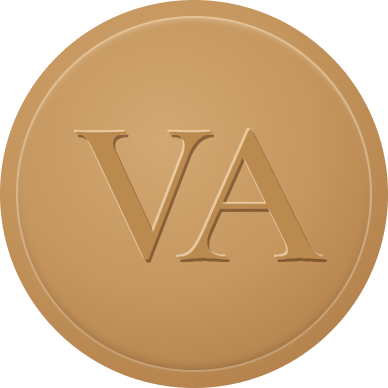
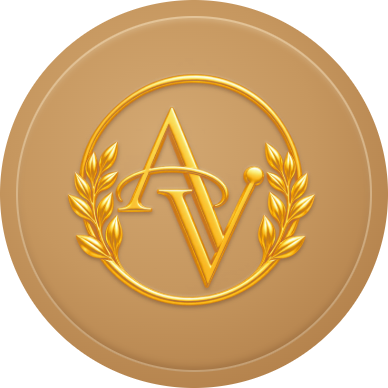
vaishali-arpan-wedding: the couple's AV monogram in the envelope's seal (poster and film) and on the closing slide
- invites/src/vaishali-arpan-wedding/av-logo.jpg (the client's file) keyed from black to transparent by the tool → assets/av-logo.png
- The seal face now carries the monogram instead of lettered VA; seal.png (the film's overlay) regenerated from the same face
- Closing slide: the monogram replaces the demo's heart flourish under the hashtag

Changed region(s): [[0.1546, 0.1856, 0.8351, 0.8041], [0.3711, 0.6186, 0.4021, 0.6804]]

diff --git a/public/vaishali-arpan-wedding/config.js b/public/vaishali-arpan-wedding/config.js
@@ -77,9 +77,9 @@ export const config = {
 
   stars: { title: 'A Little Message from Our Little Stars', big: 'My Bua is getting married!', line: ['Please join us to celebrate', 'this beautiful new beginning!'], love: 'With love,', names: 'Mishika, Navya & Himanshi' },
 
-  /* logo: the couple's own AV monogram, once the client supplies the file (assets/av-logo.png, transparent);
-     until then the page keeps the demo's small heart flourish under the hashtag */
-  closing: { title: ['Your Presence Is', 'Our Greatest Gift'], lines: 'We look forward to celebrating these beautiful moments with you and your family.', hashtag: '#theARVAStory', logo: '' },
+  /* logo: the couple's own AV monogram (the client's file, its black background keyed out by the tool),
+     in place of the demo's heart flourish under the hashtag; set logo to '' to show the heart again */
+  closing: { title: ['Your Presence Is', 'Our Greatest Gift'], lines: 'We look forward to celebrating these beautiful moments with you and your family.', hashtag: '#theARVAStory', logo: 'assets/av-logo.png' },
 
   opening: {
     video: 'assets/opening.mp4',

diff --git a/public/vaishali-arpan-wedding/js/app.js b/public/vaishali-arpan-wedding/js/app.js
@@ -192,7 +192,7 @@ const pageClosing = Page(8, [
   sprAt('z-rule', 'p8-rule', { delay: 0.5 }),
   live('z-lines', Z.lines, { size: 3.2, cls: 'serif italic', delay: 0.65 }),
   live('z-hashtag', Z.hashtag, { size: 3.8, cls: 'serif bold soft', delay: 0.8, wrap: false }),
-  Z.logo ? h('div', { class: 's reveal', style: { ...box('z-logo'), zIndex: 3, '--d': '0.95s' } }, h('img', { src: Z.logo, alt: `${C.couple.bride} & ${C.couple.groom} monogram`, decoding: 'async', draggable: 'false', style: { objectFit: 'contain' } })) : sprAt('z-heart', 'p8-heart', { delay: 0.95 }),
+  Z.logo ? h('div', { class: 's reveal z-logo', style: { ...box('z-logo'), zIndex: 3, '--d': '0.95s' } }, h('img', { src: Z.logo, alt: `${C.couple.bride} & ${C.couple.groom} monogram`, decoding: 'async', draggable: 'false' })) : sprAt('z-heart', 'p8-heart', { delay: 0.95 }),
   h('a', { class: 'created', href: 'https://invitivals.com/', target: '_blank', rel: 'noopener' }, 'Created by ', h('b', {}, 'INVITIVALS')),
 ], { id: 'page-closing', crop: { top: 0.26 } });
 

diff --git a/public/vaishali-arpan-wedding/css/client.css b/public/vaishali-arpan-wedding/css/client.css
@@ -107,6 +107,9 @@ button.sd-btn { background: linear-gradient(180deg, #8a2430, #5e1420); color: va
 a.sd-btn { background: var(--card) linear-gradient(180deg, #fdf6e8, #f3e0c0); color: var(--ink-deep); border: 1px solid var(--gold); box-shadow: 0 0 0 .5cqw rgba(252, 243, 228, .85), 0 1.2cqw 2.6cqw rgba(84, 44, 16, .22); }
 a.sd-btn .ico { color: var(--burgundy); }
 
+/* ── the closing: the couple's monogram ── */
+.z-logo img { object-fit: contain; filter: drop-shadow(0 .6cqw 1.4cqw rgba(84, 44, 16, .28)); }
+
 /* ── Add to Calendar sheet ── */
 .sheet { position: fixed; inset: 0; z-index: 70; display: flex; align-items: flex-end; justify-content: center; }
 .sheet[hidden] { display: none; }

diff --git a/public/vaishali-arpan-wedding/js/layout.js b/public/vaishali-arpan-wedding/js/layout.js
@@ -70,5 +70,5 @@ Object.assign(art, {
   'z-lines': { x: 20, y: 51.8, w: 60, h: 5.2 },
   'z-hashtag': { x: 25, y: 58.2, w: 50, h: 3 },
   'z-heart': { x: 35.919, y: 62.6, w: 28.905, h: 3.947 },
-  'z-logo': { x: 42.4, y: 61.4, w: 20, h: 8 }, /* the couple's monogram in place of the heart, once supplied */
+  'z-logo': { x: 41, y: 60.8, w: 18, h: 10.13 }, /* the couple's monogram (square) in place of the heart, under the hashtag */
 });
